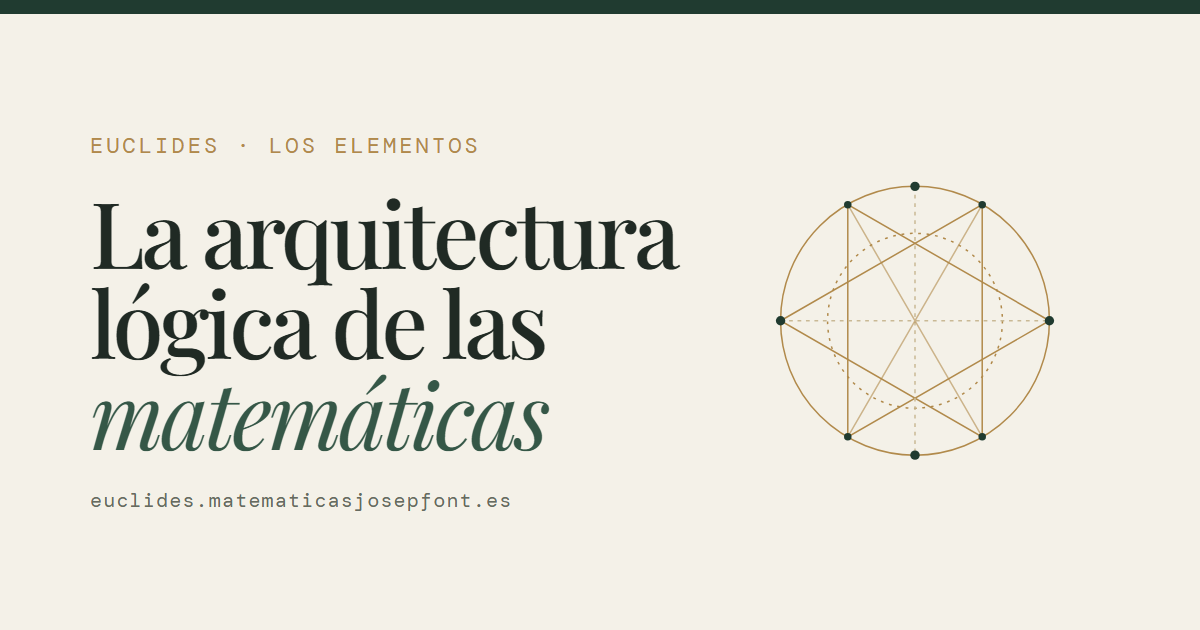
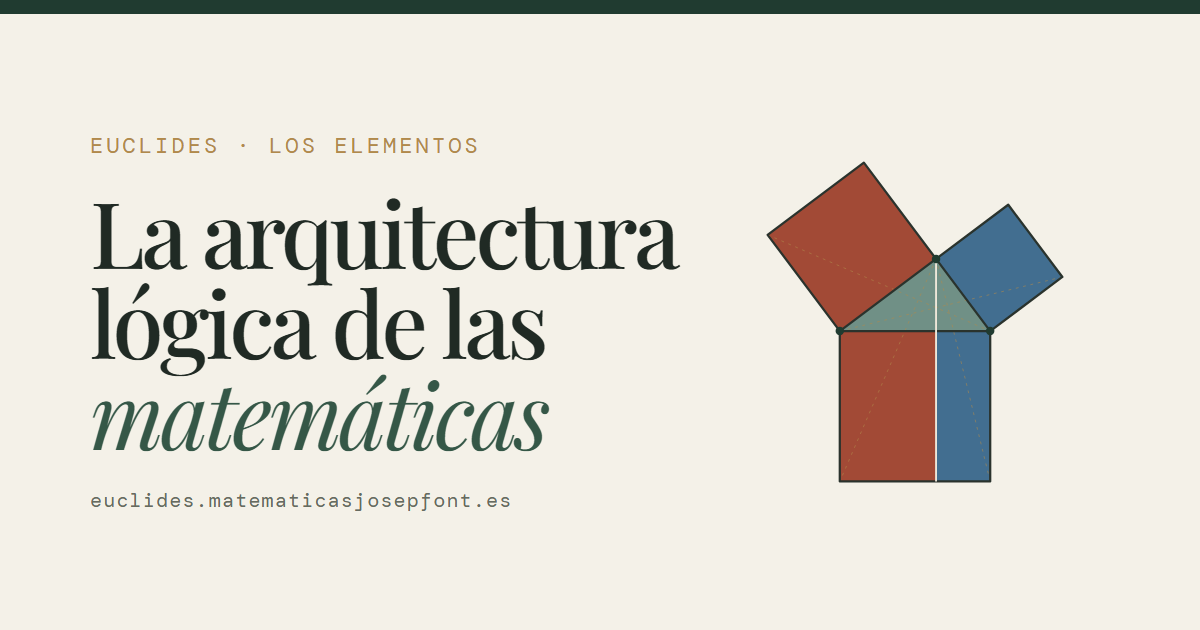
Portada con la figura de I.47 y nueva paleta para las figuras
- La imagen de la portada es ahora el teorema de Pitágoras (I.47):
  se traza al cargar la página y luego se colorean las áreas iguales
- Paleta de las figuras: rojo, azul #426e90 y verde salvia #709086
  (sustituye al amarillo en figuras y textos), con contornos oscuros
- Imagen para compartir actualizada con la nueva figura

Changed region(s): [[0.6167, 0.2413, 0.8942, 0.7841]]

diff --git a/src/style.css b/src/style.css
@@ -3,7 +3,7 @@
 :root{
   --ink:#202a24; --paper:#f4f1e8; --paper2:#e9e4d7; --card:#fcfaf4;
   --green:#203b30; --green2:#355747; --gold:#b18a4b; --muted:#666b60; --line:#d7d0c0;
-  --red:#a24a36; --blue:#2f5f86; --yellow:#b8892c; --ok:#486c4e; --pending:#8d4b3d;
+  --red:#a24a36; --blue:#426e90; --sage:#709086; --fig-line:#2a332d; --ok:#486c4e; --pending:#8d4b3d;
   --serif:"Playfair Display",Georgia,"Times New Roman",serif;
   --sans:"DM Sans",system-ui,-apple-system,"Segoe UI",sans-serif;
   --mono:"DM Mono",ui-monospace,Menlo,Consolas,monospace;
@@ -78,6 +78,20 @@ p{margin:0}
 .hero-art{display:grid;place-items:center;position:relative;min-height:360px}
 .hero-art svg{width:min(100%,500px);overflow:visible}
 .art-caption{position:absolute;bottom:0;right:0;font:10px var(--mono);letter-spacing:.1em;color:var(--muted)}
+/* Figura I.47: se traza con regla (líneas), luego se colorean las áreas iguales */
+.pyth .red{fill:var(--red)}
+.pyth .blue{fill:var(--blue)}
+.pyth .sage{fill:var(--sage)}
+.pyth .fills{animation:appear 1s ease 2.6s both}
+.pyth .aux{fill:none;stroke:var(--gold);stroke-width:1;stroke-dasharray:3 5;opacity:.6;animation:appear .8s ease 3.3s both}
+.pyth .draw{fill:none;stroke:var(--fig-line);stroke-width:2;stroke-linejoin:round;stroke-dasharray:1;stroke-dashoffset:1;animation:draw 1s ease-in-out both}
+.pyth .draw.alt{stroke:#efe8da;stroke-width:1.6}
+.pyth .d1{animation-delay:.2s}.pyth .d2{animation-delay:1s}.pyth .d3{animation-delay:1.4s}.pyth .d4{animation-delay:1.8s}.pyth .d5{animation-delay:2.4s;animation-duration:.6s}
+.pyth .pts{fill:var(--green);font:11px var(--mono);animation:appear .6s ease .2s both}
+.pyth .pts text{fill:var(--muted)}
+@keyframes draw{to{stroke-dashoffset:0}}
+@keyframes appear{from{opacity:0}}
+@media (prefers-reduced-motion:reduce){.pyth *{animation:none!important}.pyth .draw{stroke-dashoffset:0}}
 .rule{display:flex;align-items:center;gap:17px;color:var(--muted);font:10px var(--mono);letter-spacing:.14em;text-transform:uppercase}
 .rule::before,.rule::after{content:"";height:1px;background:var(--line);flex:1}
 
@@ -211,20 +225,20 @@ ol.items.defs li{break-inside:avoid;margin-bottom:14px}
 
 /* Colores de las figuras (al estilo de Byrne) */
 .sg{font-style:italic;border-bottom:3px solid;white-space:nowrap}
-.sg-red{border-color:var(--red)}.sg-yellow{border-color:var(--yellow)}.sg-blue{border-color:var(--blue)}
+.sg-red{border-color:var(--red)}.sg-sage{border-color:var(--sage)}.sg-blue{border-color:var(--blue)}
 svg .ln{stroke:var(--green);stroke-width:1.4;fill:none}
 svg .ln-red{stroke:var(--red);stroke-width:3.4;stroke-linecap:round}
-svg .ln-yellow{stroke:var(--yellow);stroke-width:3.4;stroke-linecap:round}
+svg .ln-sage{stroke:var(--sage);stroke-width:3.4;stroke-linecap:round}
 svg .ln-blue{stroke:var(--blue);stroke-width:3.4;stroke-linecap:round}
 svg .cons{stroke:var(--gold);stroke-width:1.3;fill:none}
 svg .dash{stroke:#b9ad92;stroke-width:1;fill:none;stroke-dasharray:3 4}
 svg .f-ink{fill:var(--green);fill-opacity:.07}
-svg .f-red{fill:var(--red);fill-opacity:.18;stroke:var(--red);stroke-width:1.2}
-svg .f-yellow{fill:var(--yellow);fill-opacity:.2;stroke:var(--yellow);stroke-width:1.2}
-svg .f-blue{fill:none;stroke:var(--blue);stroke-width:1.5}
+svg .f-red{fill:var(--red);stroke:var(--fig-line);stroke-width:1.4}
+svg .f-sage{fill:var(--sage);stroke:var(--fig-line);stroke-width:1.4}
+svg .f-blue{fill:var(--blue);stroke:var(--fig-line);stroke-width:1.4}
 svg .w-red{fill:var(--red);fill-opacity:.85}
 svg .w-blue{fill:var(--blue);fill-opacity:.85}
-svg .w-yellow{fill:var(--yellow);fill-opacity:.9}
+svg .w-sage{fill:var(--sage);fill-opacity:.9}
 svg .pt{fill:var(--green)}
 svg .lab{font-family:var(--serif);font-style:italic;font-size:16px;fill:var(--green)}
 svg .handle{fill:#fcfaf4;stroke:var(--green);stroke-width:1.6;cursor:grab}

diff --git a/src/figures.js b/src/figures.js
@@ -28,7 +28,7 @@ FIGS["I.1"]={vb:[400,310],points:{A:{x:145,y:205},B:{x:255,y:205}},drag:["A","B"
     const d=len(sub(q,o));if(d<40)q=add(o,mul(unit(sub(q,o)),40));if(d>125)q=add(o,mul(unit(sub(q,o)),125));P[k]=q},
   draw(P,s,at){const{A,B}=P,L=len(sub(B,A)),C=add(mid(A,B),mul(perp(sub(B,A)),-Math.sqrt(3)/2)),G=mul(add(add(A,B),C),1/3);
     return at(4,poly([A,B,C],"f-ink"))+at(1,circ(A,L,"cons"))+at(2,circ(B,L,"cons"))
-      +ln(A,B,"ln-blue")+at(3,ln(C,A,"ln-red")+ln(C,B,"ln-yellow")+pt(C)+lab(C,"C",G))+lab(A,"A",G)+lab(B,"B",G)},
+      +ln(A,B,"ln-blue")+at(3,ln(C,A,"ln-red")+ln(C,B,"ln-sage")+pt(C)+lab(C,"C",G))+lab(A,"A",G)+lab(B,"B",G)},
   readout(P,s){const L=len(sub(P.B,P.A))/10;return s>=3?`AB = ${fmt(L)} · BC = ${fmt(L)} · CA = ${fmt(L)}`:`AB = ${fmt(L)}`}};
 
 /* I.32 — Suma de los ángulos de un triángulo */
@@ -36,7 +36,7 @@ FIGS["I.32"]={vb:[400,300],points:{A:{x:150,y:70},B:{x:70,y:235},C:{x:250,y:235}
   draw(P,s,at){const{A,B,C}=P,G=mul(add(add(A,B),C),1/3);
     const u=unit(sub(C,B)),D=add(C,mul(u,105)),E=add(C,mul(unit(sub(A,B)),110));
     const m={x:u.y,y:-u.x},sw=dot(m,sub(A,C))>0?1:0,s1=add(C,mul(u,-44)),s2=add(C,mul(u,44));
-    return wedge(A,B,C,22,"w-red")+wedge(B,A,C,22,"w-blue")+wedge(C,A,B,20,"w-yellow")
+    return wedge(A,B,C,22,"w-red")+wedge(B,A,C,22,"w-blue")+wedge(C,A,B,20,"w-sage")
       +at(3,wedge(C,A,E,30,"w-red"))+at(4,wedge(C,E,D,30,"w-blue"))
       +at(5,`<path d="M${f(s1.x)} ${f(s1.y)} A44 44 0 0 ${sw} ${f(s2.x)} ${f(s2.y)}" class="dash"/>`)
       +at(1,ln(C,D,"ln")+lab(D,"D",C))+at(2,ln(C,E,"ln")+lab(E,"E",C))
@@ -54,11 +54,11 @@ FIGS["I.47"]={vb:[400,330],points:{A:{x:O.x-R*Math.cos(1.2),y:O.y-R*Math.sin(1.2
     const n=sub(sqBC[3],B),F=add(B,mul(sub(C,B),dot(sub(A,B),sub(C,B))/dot(sub(C,B),sub(C,B)))),L=add(F,n);
     const u1=unit(sub(B,A)),u2=unit(sub(C,A)),r1=add(A,mul(u1,10)),r2=add(r1,mul(u2,10)),r3=add(A,mul(u2,10));
     return `<path d="M${B.x} ${B.y} A${R} ${R} 0 0 1 ${C.x} ${C.y}" class="dash"/>`
-      +at(1,poly(sqAB,"f-red")+poly(sqAC,"f-yellow"))
-      +at(4,poly([B,F,L,sqBC[3]],"f-red")+poly([F,C,sqBC[2],L],"f-yellow"))
+      +at(1,poly(sqAB,"f-red")+poly(sqAC,"f-sage"))
+      +at(4,poly([B,F,L,sqBC[3]],"f-red")+poly([F,C,sqBC[2],L],"f-sage"))
       +at(2,poly(sqBC,"f-blue"))+at(3,ln(A,L,"ln"))
       +`<polyline points="${f(r1.x)},${f(r1.y)} ${f(r2.x)},${f(r2.y)} ${f(r3.x)},${f(r3.y)}" class="ln"/>`
-      +ln(A,B,"ln-red")+ln(A,C,"ln-yellow")+ln(B,C,"ln-blue")
+      +ln(A,B,"ln-red")+ln(A,C,"ln-sage")+ln(B,C,"ln-blue")
       +lab(A,"A",G)+lab(B,"B",{x:G.x+30,y:G.y-20})+lab(C,"C",{x:G.x-30,y:G.y-20})},
   readout(P){const ab=(len(sub(P.A,P.B))/10)**2,ac=(len(sub(P.A,P.C))/10)**2,bc=(len(sub(P.B,P.C))/10)**2;
     return `AB² = ${fmt(ab)} · AC² = ${fmt(ac)} · AB² + AC² = ${fmt(ab+ac)} · BC² = ${fmt(bc)}`}};

diff --git a/src/og.html b/src/og.html
@@ -23,6 +23,14 @@
     <h1>La arquitectura lógica de las <em>matemáticas</em></h1>
     <div class="site">euclides.matematicasjosepfont.es</div>
   </div>
-  <svg viewBox="0 0 500 410"><g fill="none" stroke="#b18a4b" stroke-width="1.6"><circle cx="250" cy="204" r="143"/><circle cx="250" cy="204" r="93" stroke-dasharray="3 6"/><path d="M107 204 321.5 80.5 321.5 327.5Z"/><path d="M393 204 178.5 80.5 178.5 327.5Z"/><path d="M107 204H393M250 61V347" stroke="#c9b995" stroke-dasharray="4 5"/><path d="M178.5 80.5 321.5 327.5M321.5 80.5 178.5 327.5" opacity=".6"/></g><g fill="#203b30"><circle cx="107" cy="204" r="5"/><circle cx="393" cy="204" r="5"/><circle cx="250" cy="61" r="5"/><circle cx="250" cy="347" r="5"/><circle cx="321.5" cy="80.5" r="4"/><circle cx="321.5" cy="327.5" r="4"/><circle cx="178.5" cy="80.5" r="4"/><circle cx="178.5" cy="327.5" r="4"/></g></svg>
+  <!-- La misma figura de I.47 que la portada (build.mjs, heroArt), sin animación -->
+  <svg viewBox="0 0 500 410">
+    <g><path fill="#a24a36" d="M170 215 272.4 138.2 195.6 35.8 93.2 112.6ZM170 215H272.4V375H170Z"/><path fill="#426e90" d="M272.4 138.2 330 215 406.8 157.4 349.2 80.6ZM272.4 215H330V375H272.4Z"/></g>
+    <path fill="#709086" d="M170 215 272.4 138.2 330 215Z"/>
+    <path fill="none" stroke="#b18a4b" stroke-dasharray="3 5" opacity=".6" d="M272.4 138.2 170 375M93.2 112.6 330 215M272.4 138.2 330 375M406.8 157.4 170 215"/>
+    <path fill="none" stroke="#2a332d" stroke-width="2.4" stroke-linejoin="round" d="M170 215 272.4 138.2 330 215ZM170 215 93.2 112.6 195.6 35.8 272.4 138.2M272.4 138.2 349.2 80.6 406.8 157.4 330 215M170 215V375H330V215"/>
+    <path stroke="#efe8da" stroke-width="2" d="M272.4 138.2V375"/>
+    <g fill="#203b30"><circle cx="170" cy="215" r="4.5"/><circle cx="272.4" cy="138.2" r="4.5"/><circle cx="330" cy="215" r="4.5"/></g>
+  </svg>
 </body>
 </html>
